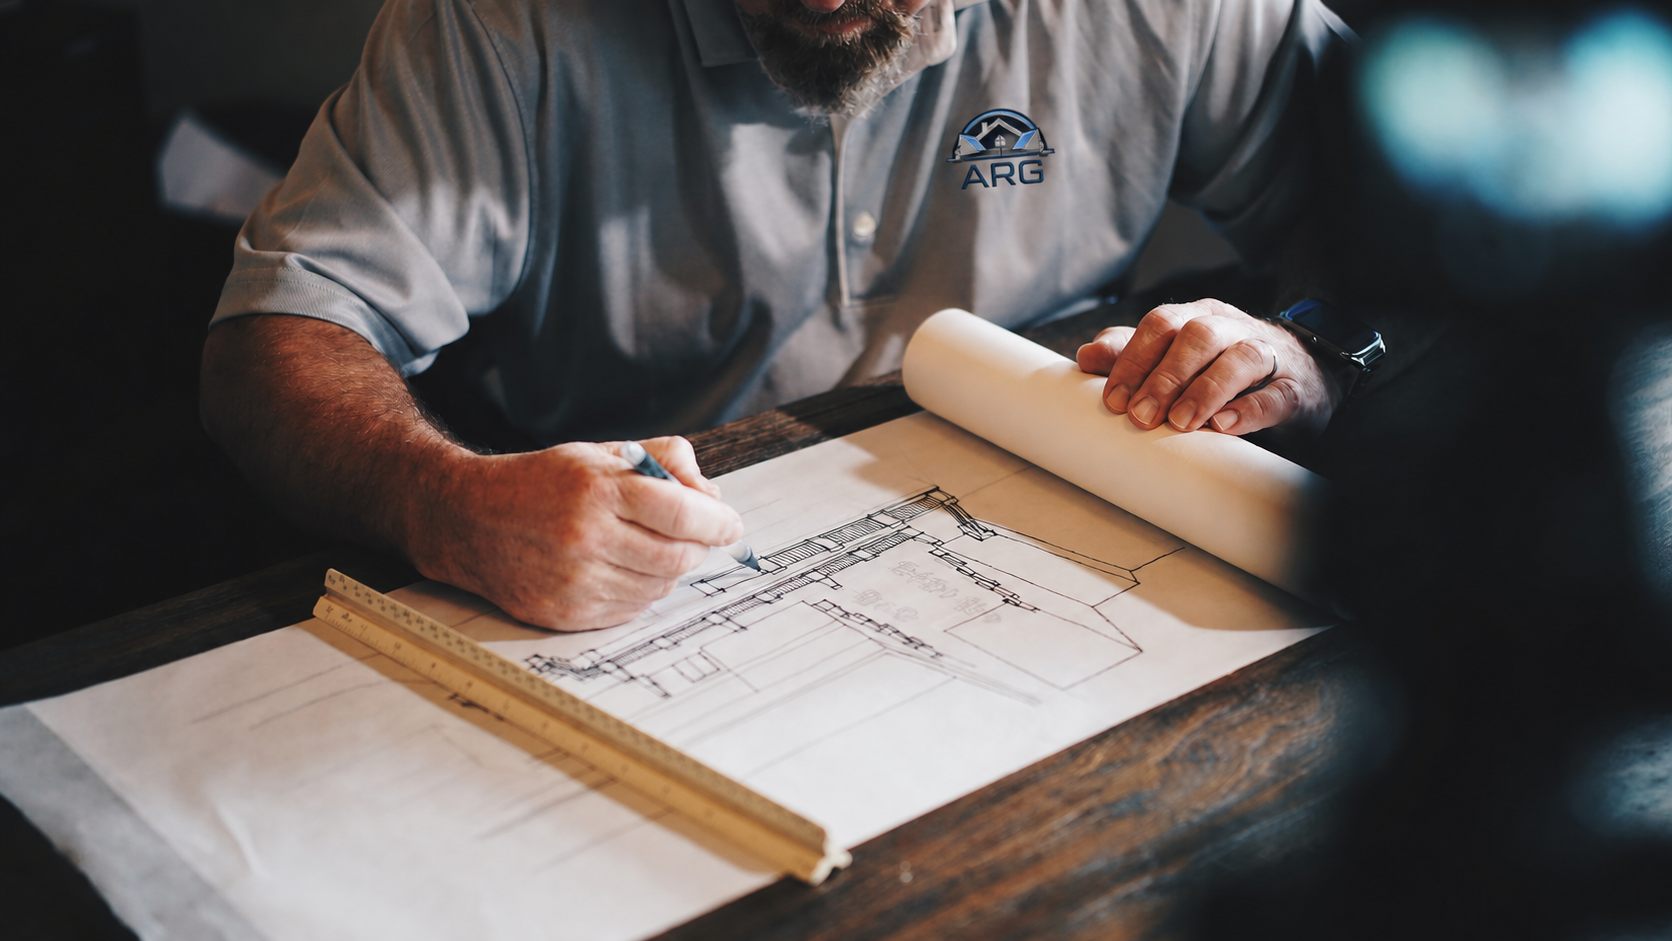
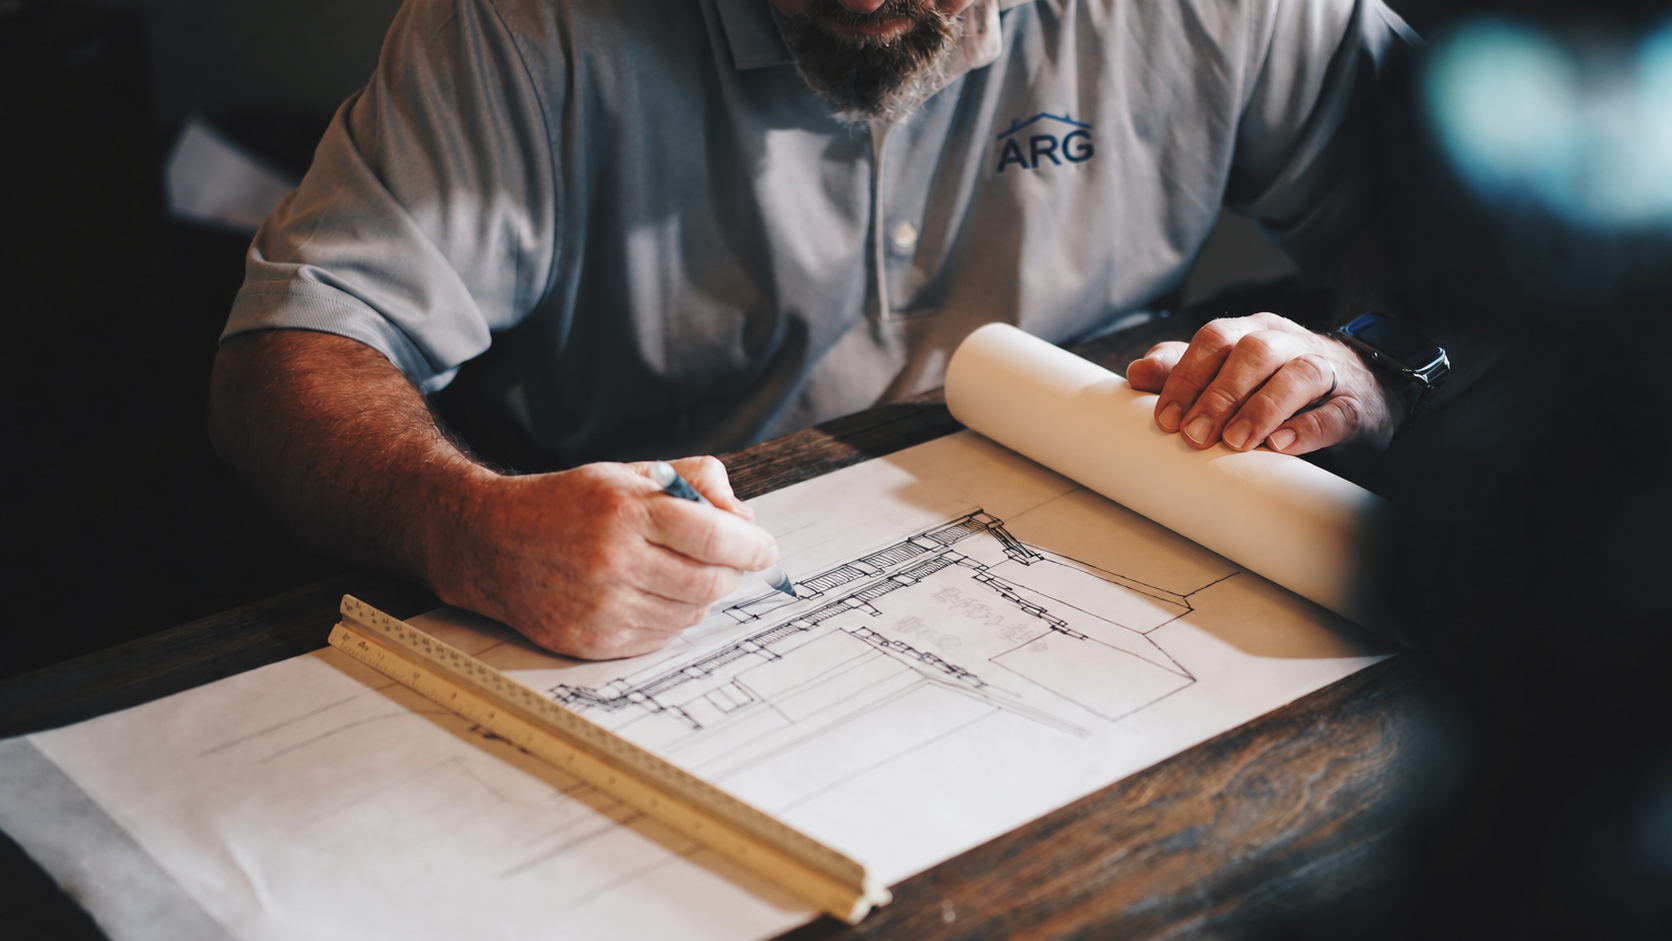
Refine branded planning photo (#8)

diff --git a/index.html b/index.html
@@ -522,7 +522,7 @@
     <section class="proof section-pad dark-section">
       <div class="shell proof-grid">
         <div class="proof-image reveal">
-          <img src="assets/images/arg-planning-team.png" alt="ARG construction professional reviewing residential plans" loading="lazy">
+          <img src="assets/images/arg-planning-team.png?v=2" alt="ARG construction professional reviewing residential plans" loading="lazy">
           <div class="proof-image-card"><strong>Built for informed homeowners.</strong><span>Clear answers. Thoughtful planning. Better execution.</span></div>
         </div>
         <div class="proof-copy reveal delay-1">
